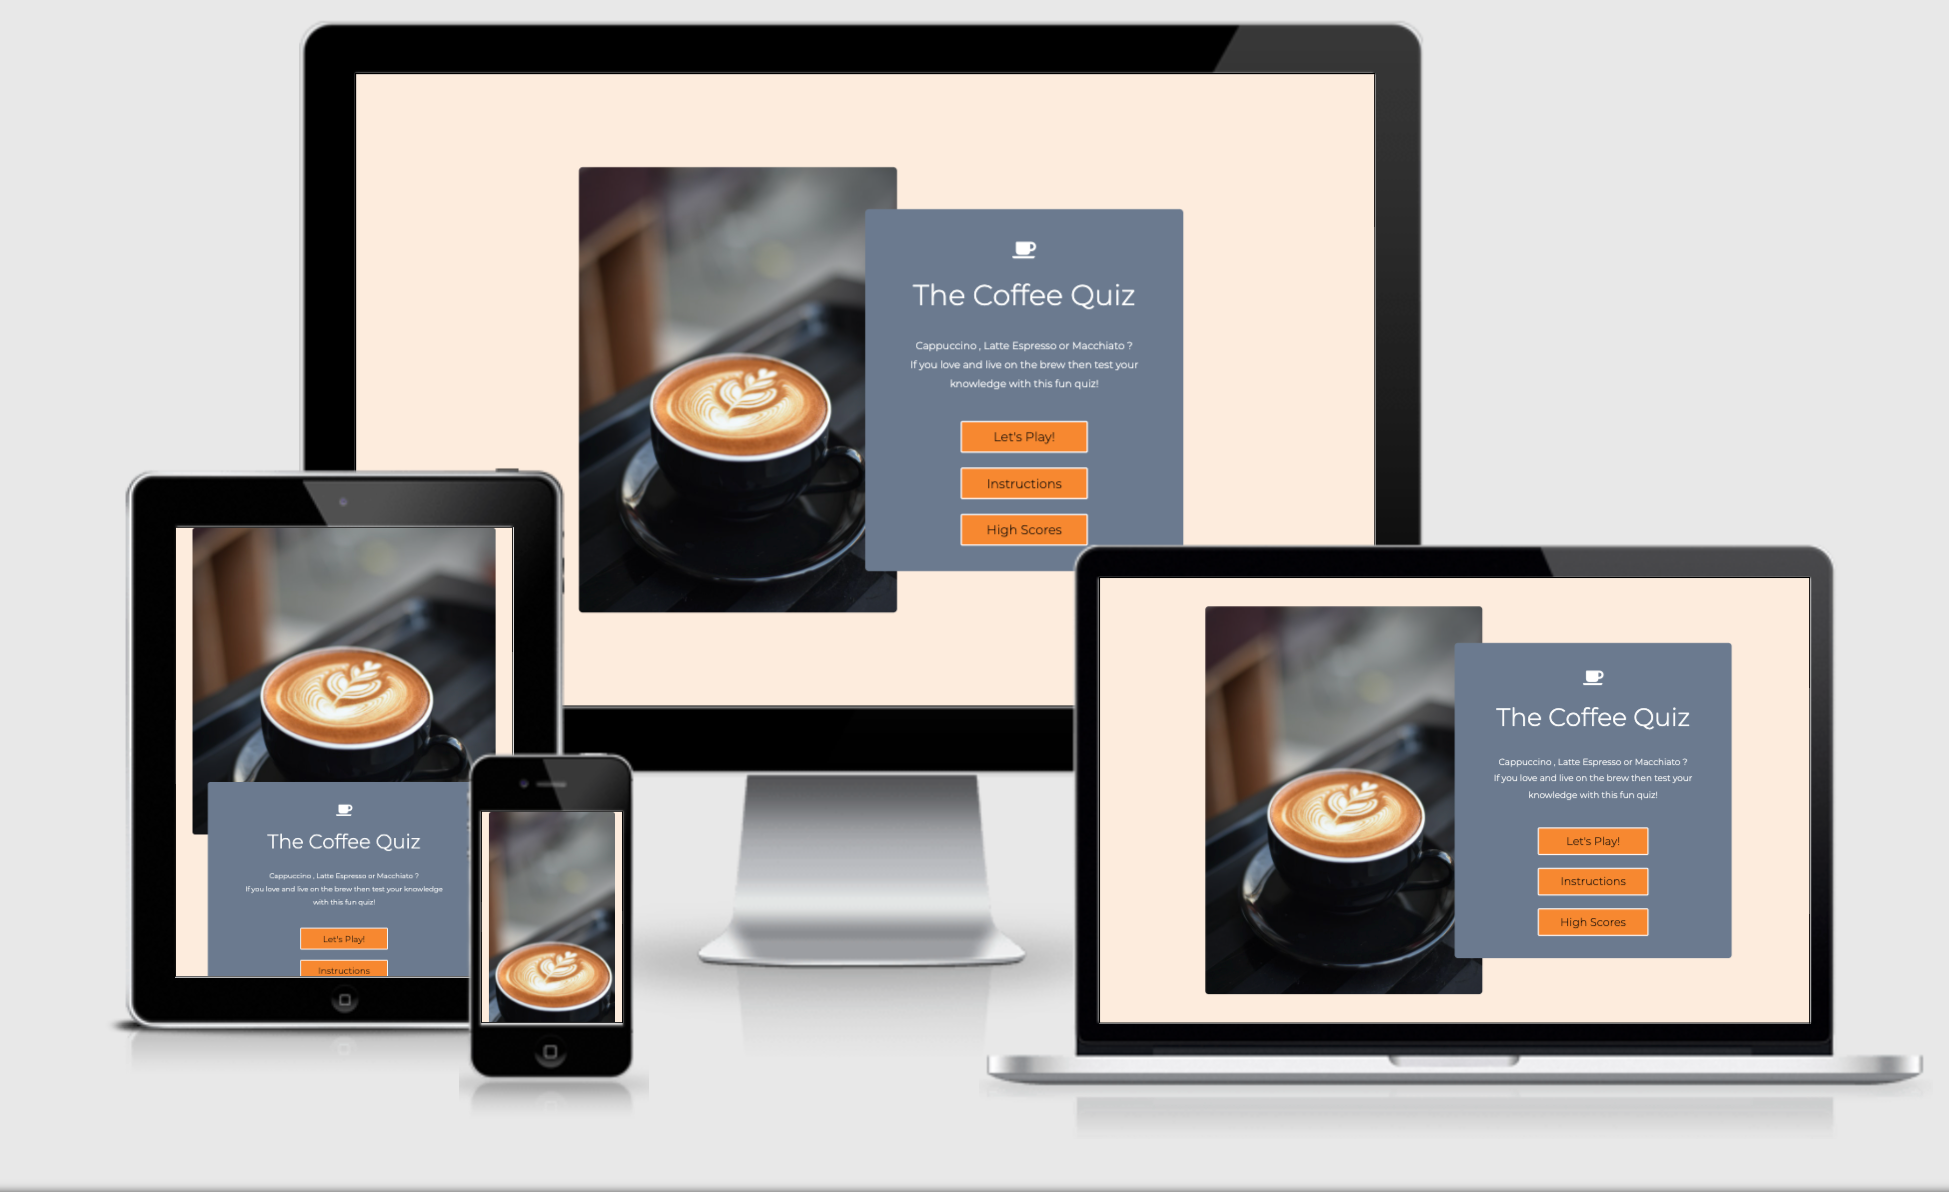
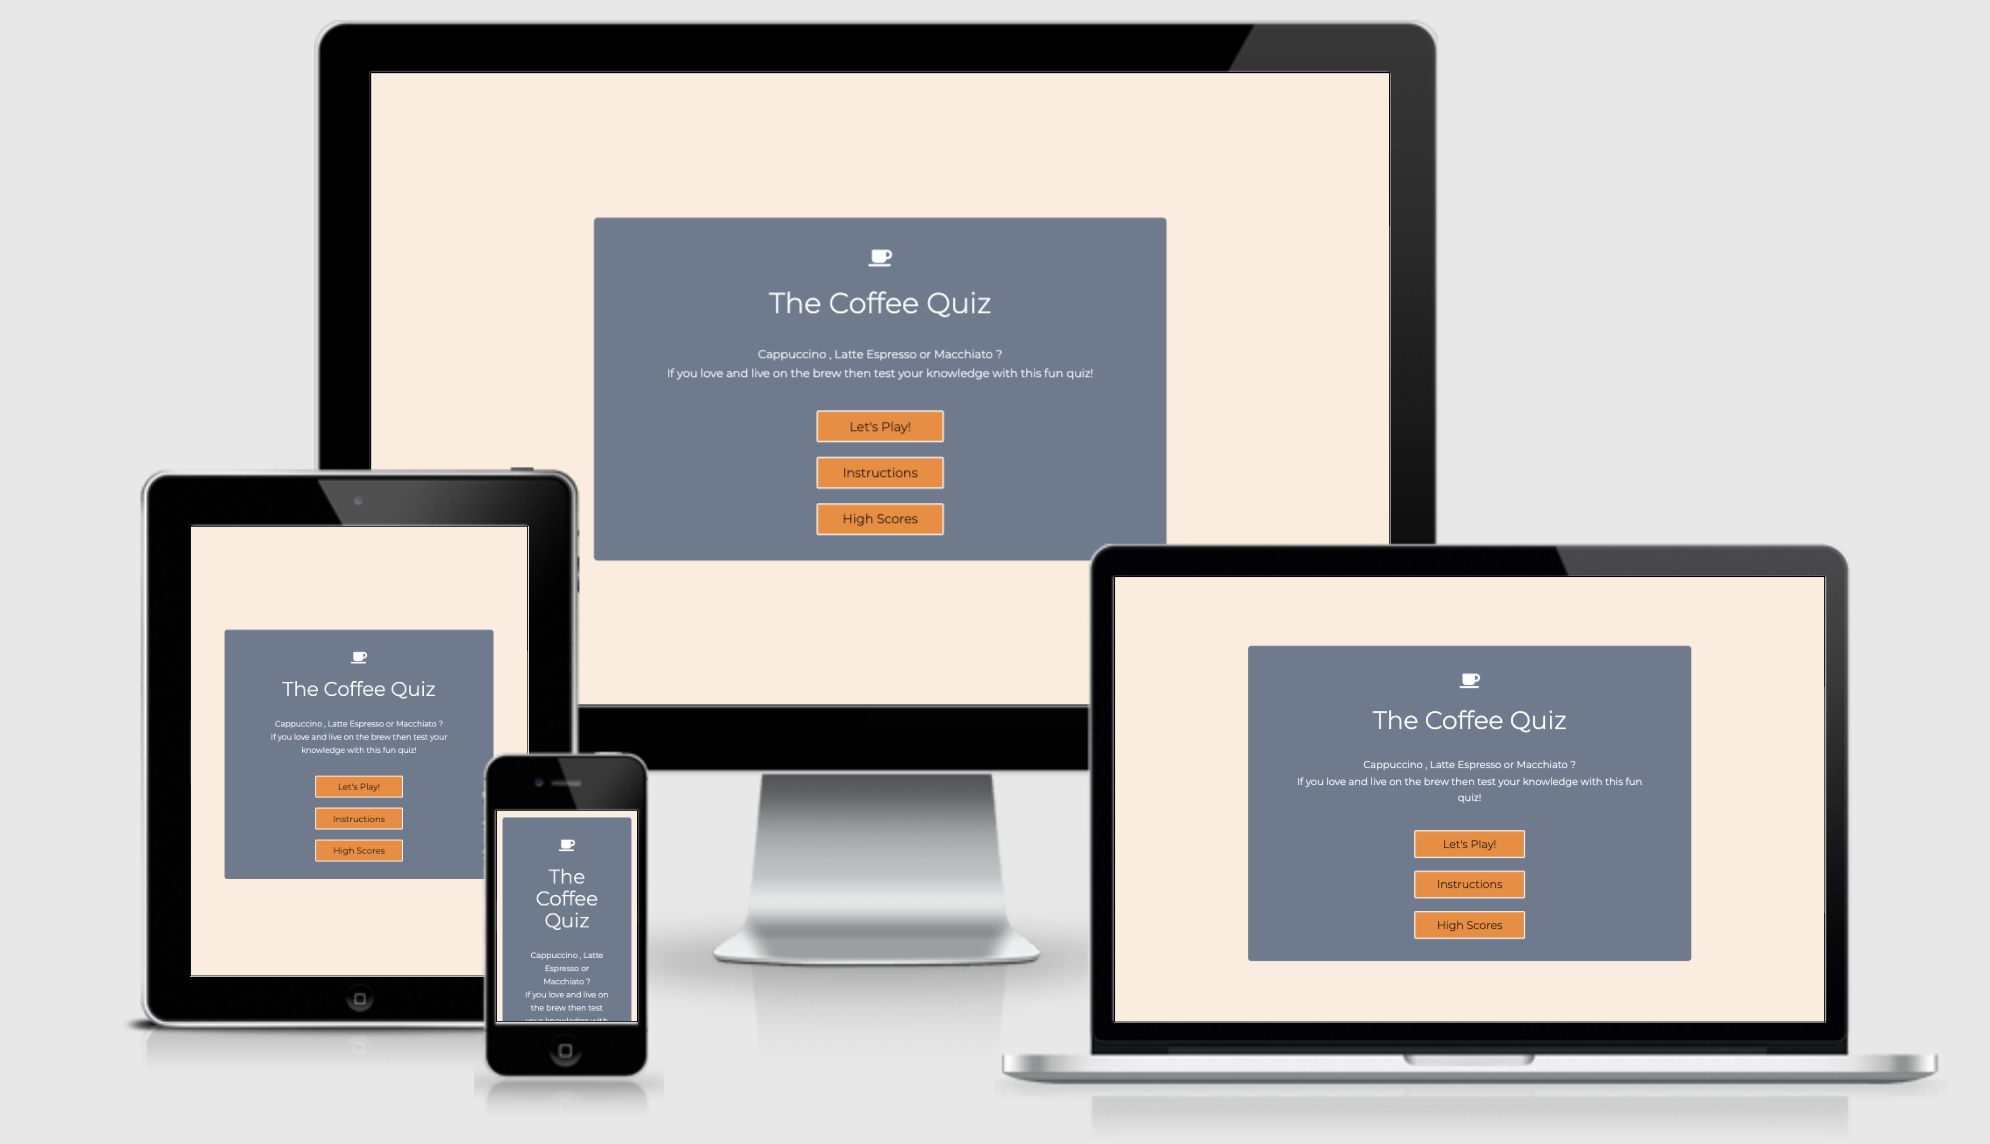
Update all images in features section and add quiz page exit modal details and img

diff --git a/README.md b/README.md
@@ -110,7 +110,8 @@
         -   The correct answer will get highlighted in green and the user will get 10 points which is added to their score .
         -   The incorrect answer will get highlighted in red and the user will not get any points. However , no points are deducted for the incorrect answer.
         -   There is a 1 second delay after the user answers a question before moving to the next one.
-        -   There is an "exit" button at the bottom of the screen which allows the user to quit the quiz and return to home page at any time.
+        -   There is an "Exit Quiz" button at the bottom of the screen which allows the user to quit the quiz and return to home page at any time.
+        -   The "Exit Quiz" first opens into a modal to ensure the user definately wants to exit game. Incase they have unintentionaly pressed the exit quiz button they have the option to return to the quiz without losing their score.
 
 
 <p align="center">
@@ -118,6 +119,10 @@
         <img src="readme/images/qp-mob.png" alt="FullScreen Quiz Page Wire Frame"width="220" height="500">
        </p>
 
+<p align="center">
+       <img src="readme/images/qp_modal.png" alt="FullScreen Quiz Page Wire Frame" width="600" height="500">
+        <img src="readme/images/qp_modal-mob.png" alt="FullScreen Quiz Page Wire Frame"width="220" height="500">
+       </p>
 <br>
 
 -  ## Conclude Page
